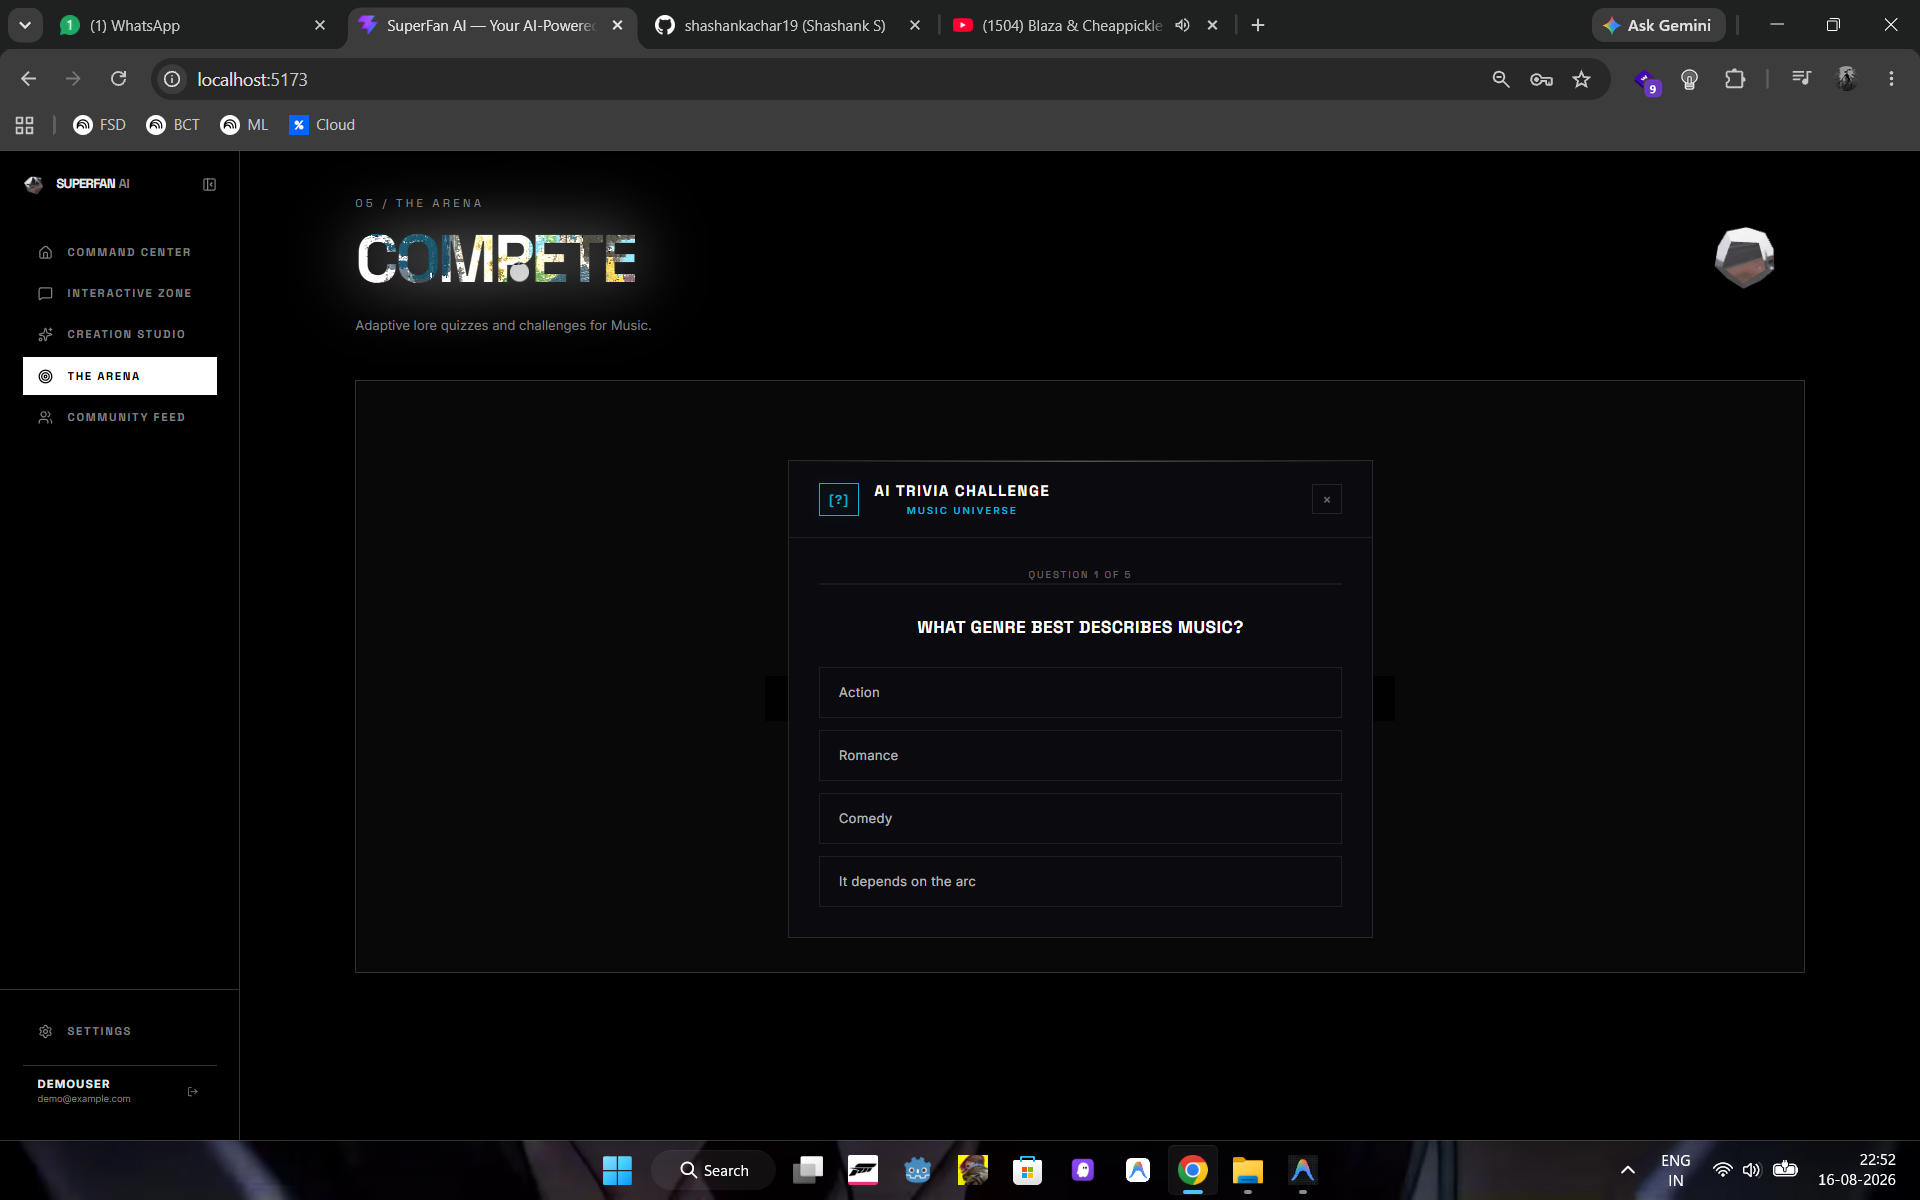
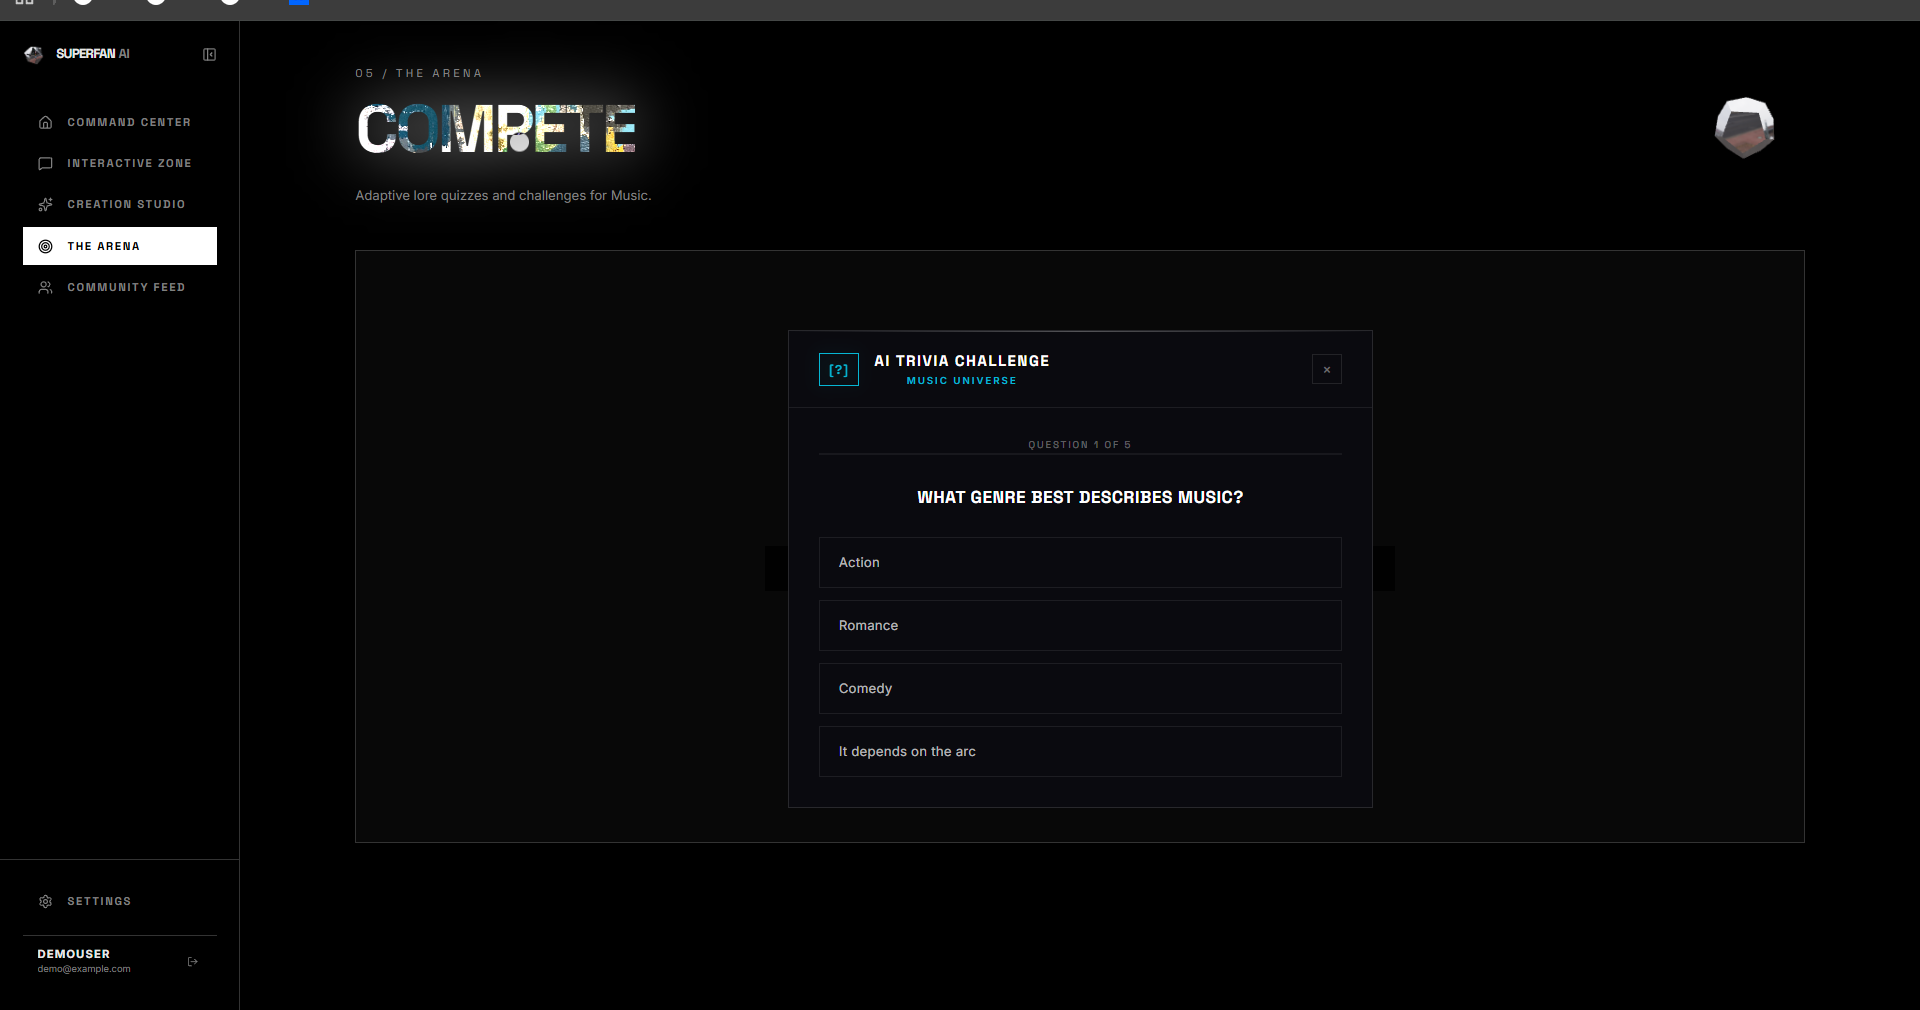
Embed screenshots in README and crop arena image

diff --git a/README.md b/README.md
@@ -53,12 +53,22 @@ The application is built with a heavy emphasis on cinematic, high-performance we
 
 ## Previews
 
-You can find high-resolution screenshots of the interface within the `docs/` directory:
-- `docs/hero.png` - The cinematic landing experience
-- `docs/command_center.png` - Personalized user dashboard
-- `docs/interactive_zone.png` - Character chat interface
-- `docs/creation_studio.png` - AI generation suite
-- `docs/arena.png` - Adaptive trivia engine
+You can find high-resolution screenshots of the interface below:
+
+### The Cinematic Landing Experience
+![Hero Landing](docs/hero.png)
+
+### Personalized User Dashboard
+![Command Center](docs/command_center.png)
+
+### Adaptive Trivia Engine
+![Arena Quiz](docs/arena.png)
+
+### Character Chat Interface
+![Interactive Zone](docs/interactive_zone.png)
+
+### AI Generation Suite
+![Creation Studio](docs/creation_studio.png)
 
 ## License
 
